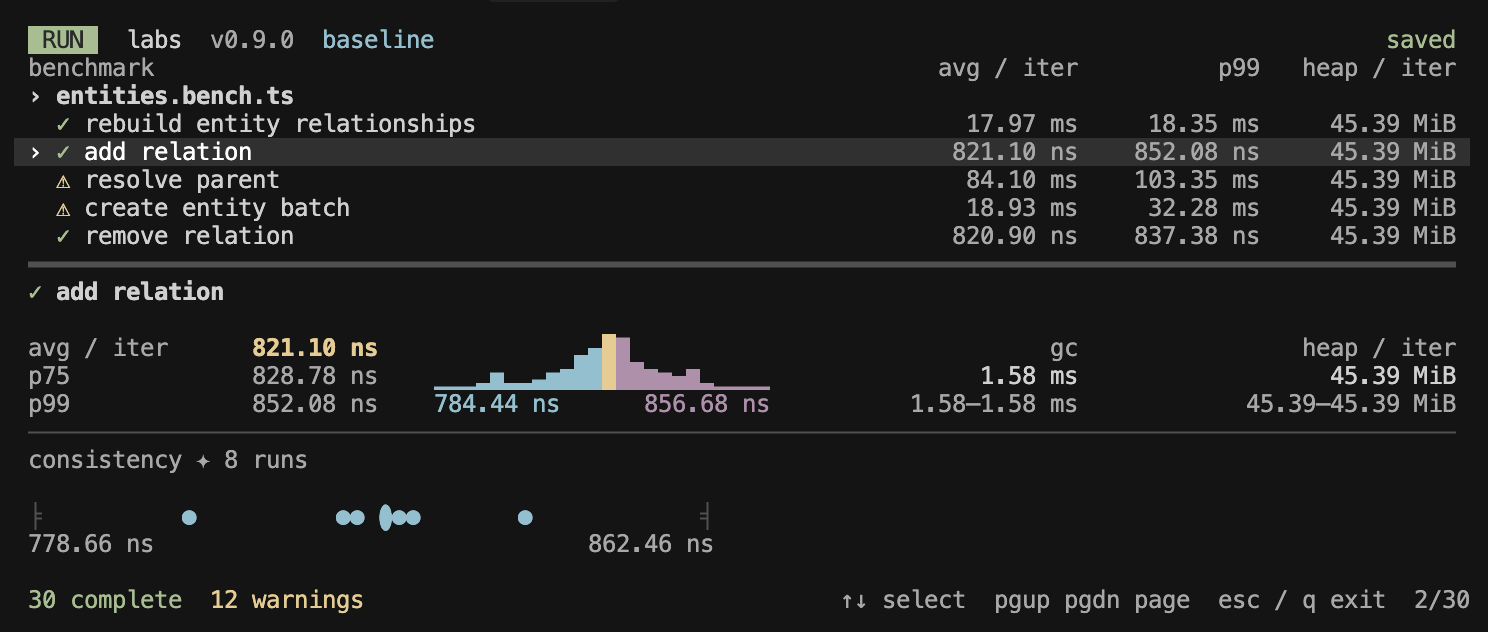
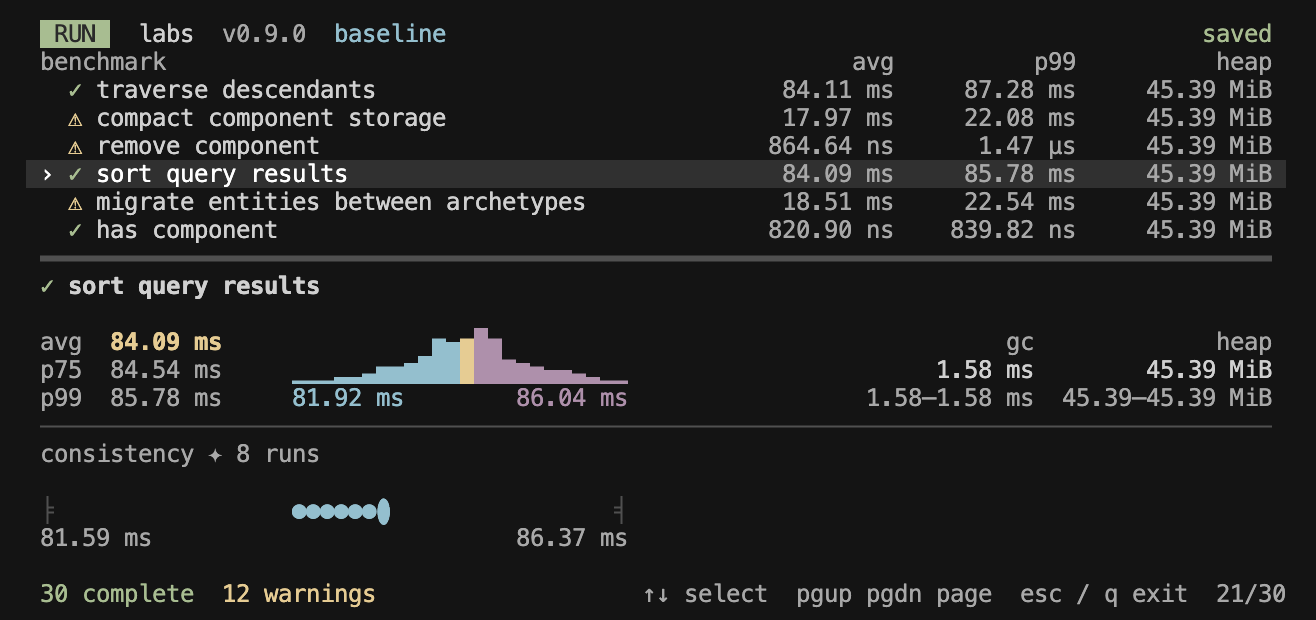
💄 Simplify TUI labels and spacing

diff --git a/tests/run-screen.test.ts b/tests/run-screen.test.ts
@@ -145,12 +145,11 @@ describe('run report', () => {
     expect(text).toContain('1.00–2.00 KiB');
     expect(text).toContain('1 warning');
     expect(text).not.toContain('min–max');
-    const avg = frame.lines.find(
-      (line) => line.includes('avg / iter') && line.includes('575.00 ns')
-    )!;
+    const avg = frame.lines.find((line) => line.includes('avg') && line.includes('575.00 ns'))!;
     const p75 = frame.lines.find((line) => line.includes('p75') && line.includes('650.00 ns'))!;
+    expect(avg).toContain('avg  575.00 ns');
     expect(avg).toContain('gc');
-    expect(avg).toContain('heap / iter');
+    expect(avg).toContain('heap');
     expect(p75).toContain('15.00 ns');
     expect(p75).toContain('1.50 KiB');
     const consistency = frame.lines.find((line) => line.includes('consistency'))!;
@@ -162,10 +161,10 @@ describe('run report', () => {
     const dots = frame.lines[frame.lines.indexOf(consistency) + 2];
     expect(dots.indexOf('╞')).toBe(1);
     expect(dots.indexOf('╡')).toBe(47);
-    expect(avg.indexOf('gc') + 2).toBe(header.indexOf('avg / iter') + 10);
-    expect(avg.indexOf('heap / iter') + 11).toBe(header.indexOf('heap / iter') + 11);
+    expect(avg.indexOf('gc') + 2).toBe(header.indexOf('avg') + 3);
+    expect(avg.indexOf('heap') + 4).toBe(header.indexOf('heap') + 4);
     expect(avg.indexOf('gc') + 2).toBe(p75.indexOf('15.00 ns') + 8);
-    expect(avg.indexOf('heap / iter') + 11).toBe(p75.indexOf('1.50 KiB') + 8);
+    expect(avg.indexOf('heap') + 4).toBe(p75.indexOf('1.50 KiB') + 8);
     expect(avg.indexOf('575.00 ns')).toBe(p75.indexOf('650.00 ns'));
     expect(p99.indexOf('400.00 ns')).toBeLessThan(avg.indexOf('gc'));
     const colored = renderRunView(result, defineConfig({ benchDir: '.' }), {
@@ -185,13 +184,12 @@ describe('run report', () => {
       stats.gc = { min: 1.58e6, max: 1.58e6, p50: 1.58e6 };
       stats.heap = { min: 45.39 * 1024 ** 2, max: 45.39 * 1024 ** 2, p50: 45.39 * 1024 ** 2 };
       const frame = render(result, columns);
-      const avg = frame.lines.find(
-        (line) => line.includes('avg / iter') && line.includes('575.00 ns')
-      )!;
+      const avg = frame.lines.find((line) => line.includes('avg') && line.includes('575.00 ns'))!;
       const p75 = frame.lines.find((line) => line.includes('p75') && line.includes('650.00 ns'))!;
       const p99 = frame.lines.find((line) => line.includes('p99') && line.includes('750.00 ns'))!;
+      expect(avg).toContain('avg  575.00 ns');
       expect(avg).toContain('gc');
-      expect(avg).toContain('heap / iter');
+      expect(avg).toContain('heap');
       expect(p75).toMatch(/[▁▂▃▄▅▆▇█]/);
       expect(p75).toContain('1.58 ms');
       expect(p75).toContain('45.39 MiB');
@@ -214,14 +212,12 @@ describe('run report', () => {
     (columns) => {
       const frame = render(fixture(), columns);
       const text = frame.lines.join('\n');
-      expect(frame.lines[1]).toContain('avg / iter');
+      expect(frame.lines[1]).toContain('avg');
       expect(frame.lines[1]).toContain('p99');
       const selected = frame.lines.find((line) => line.includes('›') && line.includes('575.00 ns'))!;
       expect(selected).toContain('750.00 ns');
-      const avg = frame.lines.find(
-        (line) => line.includes('avg / iter') && line.includes('575.00 ns')
-      )!;
-      expect(avg.indexOf('575.00 ns') - avg.indexOf('avg / iter')).toBe(11);
+      const avg = frame.lines.find((line) => line.includes('avg') && line.includes('575.00 ns'))!;
+      expect(avg).toContain('avg  575.00 ns');
       const gc = frame.lines.findIndex((line) => line.includes('gc') && line.includes('15.00 ns'));
       expect(gc).toBeGreaterThan(0);
       expect(frame.lines[gc + 1]).toContain('heap');

diff --git a/src/cli/run-view.ts b/src/cli/run-view.ts
@@ -185,15 +185,14 @@ function details(
   const gcLabel = range(stats.gc, duration);
   const heapLabel = range(stats.heap, bytes);
   const compactGcWidth = Math.max(2, textWidth(gcValue), textWidth(gcLabel));
-  const compactHeapWidth = Math.max(11, textWidth(heapValue), textWidth(heapLabel));
+  const compactHeapWidth = Math.max(4, textWidth(heapValue), textWidth(heapLabel));
   const compact = width < 96 && width >= 49 + compactGcWidth + compactHeapWidth;
   const narrow = width < 96 && !compact;
-  const valueX = narrow ? 11 : compact ? 12 : 16;
-  ['avg / iter', 'p75', 'p99'].forEach((label, index) => {
-    canvas.put(y + index, 0, label, GRAY, valueX - 1);
+  ['avg', 'p75', 'p99'].forEach((label, index) => {
+    canvas.put(y + index, 0, label, GRAY, 3);
     canvas.put(
       y + index,
-      valueX,
+      5,
       duration([stats.avg, stats.p75, stats.p99][index]),
       index === 0 ? YELLOW + BOLD : GRAY,
       11
@@ -204,7 +203,7 @@ function details(
       16,
       textWidth(duration(stats.min)) + textWidth(duration(stats.max)) + 2
     );
-    const graphX = width >= 24 + graphWidth ? 24 : 0;
+    const graphX = width >= 18 + graphWidth ? 18 : 0;
     const graphY = graphX ? y : y + 4;
     distribution(canvas, entry, graphX, graphY, graphWidth);
     const memoryWidth = 5 + Math.max(textWidth(gcValue), textWidth(heapValue));
@@ -224,7 +223,7 @@ function details(
     const gcX = compact ? width - compactHeapWidth - 2 - gcWidth : width - 41;
     const heapX = gcX + gcWidth + 2;
     const heapWidth = width - heapX;
-    const graphX = compact ? 25 : 29;
+    const graphX = 18;
     const graphWidth = compact ? Math.min(24, gcX - graphX - 2) : 24;
     distribution(canvas, entry, graphX, y, graphWidth);
     canvas.put(y, gcX, 'gc', GRAY, gcWidth, true);
@@ -232,7 +231,7 @@ function details(
     const gcRange = wrapText(gcLabel, gcWidth);
     const heapRange = wrapText(heapLabel, heapWidth);
     gcRange.forEach((line, index) => canvas.put(y + 2 + index, gcX, line, GRAY, gcWidth, true));
-    canvas.put(y, heapX, 'heap / iter', GRAY, heapWidth, true);
+    canvas.put(y, heapX, 'heap', GRAY, heapWidth, true);
     canvas.put(y + 1, heapX, heapValue, '', heapWidth, true);
     heapRange.forEach((line, index) => canvas.put(y + 2 + index, heapX, line, GRAY, heapWidth, true));
     y += 2 + Math.max(gcRange.length, heapRange.length);
@@ -302,14 +301,7 @@ export function renderRunView(
   const listRow = (y: number, label: string, bench?: RunEntry) => {
     const stats = bench?.run.error === undefined ? bench?.run.stats : undefined;
     canvas.put(y, 1, label, bench ? '' : GRAY, nameWidth);
-    canvas.put(
-      y,
-      nameWidth + 3,
-      bench ? (stats ? duration(stats.avg) : '—') : 'avg / iter',
-      GRAY,
-      11,
-      true
-    );
+    canvas.put(y, nameWidth + 3, bench ? (stats ? duration(stats.avg) : '—') : 'avg', GRAY, 11, true);
     canvas.put(
       y,
       nameWidth + 16,
@@ -322,7 +314,7 @@ export function renderRunView(
       canvas.put(
         y,
         nameWidth + 29,
-        bench ? (stats?.heap ? bytes(stats.heap.p50) : '—') : 'heap / iter',
+        bench ? (stats?.heap ? bytes(stats.heap.p50) : '—') : 'heap',
         GRAY,
         12,
         true

diff --git a/src/cli/compare-view.ts b/src/cli/compare-view.ts
@@ -176,7 +176,7 @@ function measurements(canvas: TerminalCanvas, bench: EligibleBench, y: number): 
       delta: change(bench.gc?.delta),
     },
     {
-      label: 'heap / iter',
+      label: 'heap',
       base: bench.heap ? bytes(bench.heap.baseline) : '—',
       cand: bench.heap ? bytes(bench.heap.candidate) : '—',
       delta: change(bench.heap?.delta),

diff --git a/README.md b/README.md
@@ -58,10 +58,10 @@ In an interactive terminal, completed runs open a full-screen results view. Sele
 <details>
 <summary>How to read the results</summary>
 
-- **avg / iter, p75, p99**: Average time per iteration and the times that 75% and 99% of samples finish within.
+- **avg, p75, p99**: Average time per iteration and the times that 75% and 99% of samples finish within.
 - **Histogram**: The distribution of timing samples, with the fastest and slowest times below it. Cyan marks samples below the average, yellow marks the average bin, and magenta marks samples above it.
 - **gc**: Median and range of per-sample garbage collection time above the fixed cost of collecting the process's live heap. Near zero means the bench adds nothing for the collector to do. Higher values mean it creates garbage or keeps more objects alive.
-- **heap / iter**: Median and range of bytes allocated per iteration, including typed array stores held outside the JS heap. The median ignores the allocation V8 does while compiling the function, so a bench that stays on integers and reuses its objects reports zero.
+- **heap**: Median and range of bytes allocated per iteration, including typed array stores held outside the JS heap. The median ignores the allocation V8 does while compiling the function, so a bench that stays on integers and reuses its objects reports zero.
 - **consistency**: Each dot represents a fresh process's median time. Larger dots represent multiple runs at the same plotted position. Tight clusters show agreement between runs, while a wider spread shows more variation.
 
 </details>
@@ -77,6 +77,19 @@ bench compare
 Browse the results in a full-screen comparison view. Select a benchmark to see its timings, memory use, run consistency, and confidence interval.
 
 <img src="docs/images/compare.png" width="760" alt="Labs comparison view with a benchmark list, baseline and candidate measurements, run consistency, and a 95% confidence interval" />
+
+<details>
+<summary>How to read the results</summary>
+
+- **baseline, candidate, Δp50**: Median timings for the reference run and the new run. Δp50 is the percentage change. Negative means faster, positive means slower.
+- **▲ faster, ▼ slower, ■ neutral**: Faster or slower requires a statistically significant change of at least 5% by default. Neutral means no clear change was found, not that the runs are identical.
+- **p**: Smaller values give stronger evidence of a timing difference. The default cutoff is 0.05. This does not measure the size of the change.
+- **Histograms**: Baseline is cyan and candidate is magenta, both on the same time scale. Further left means faster. A wider shape means more variation.
+- **p99, gc, heap**: Tail timing, garbage collection time, and bytes allocated per iteration. The shaded row shows their percentage changes.
+- **consistency**: Each dot is a fresh process's median time, with baseline above candidate. Larger dots show overlapping runs. Tight clusters mean the runs agree.
+- **spread**: The dot shows the estimated change and the line shows its confidence interval. Left of zero means faster, right means slower. A wider interval means more uncertainty. The shaded band marks changes below the configured minimum.
+
+</details>
 
 ## Guarantees
 
